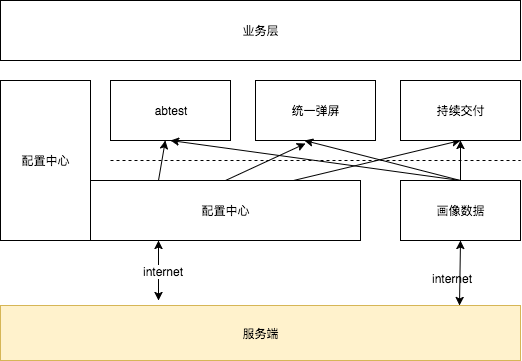
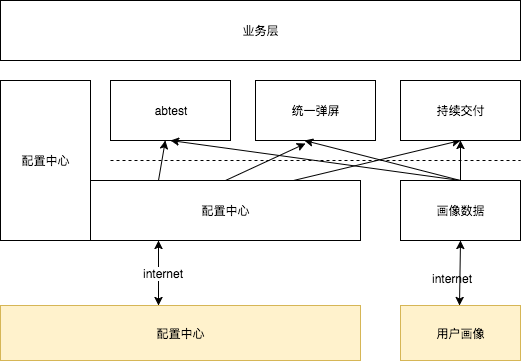
[fix]fix post

diff --git a/_posts/Technology/Algorithm/2018-08-22-tree.md b/_posts/Technology/Algorithm/2018-08-22-tree.md
@@ -1,0 +1,19 @@
+---
+
+layout: post
+title: 树
+category: 技术
+tags: Algorithm
+keywords: tree
+
+---
+
+## 简介（未完成）
+
+[左右值匹配算法](https://zhuanlan.zhihu.com/p/26046374)
+
+数据库中 描述一棵树 除了常规 方式，还有另一种 方式 [左右值树（转）](https://my.oschina.net/wamdy/blog/156931)
+
+[MySQL 左右值无限分类 预排序遍历树算法](https://my.oschina.net/bootstrap/blog/166805)
+
+

diff --git a/_posts/Technology/Architecture/2018-07-06-client_support.md b/_posts/Technology/Architecture/2018-07-06-client_support.md
@@ -61,6 +61,8 @@ keywords: abtest
 
 ![](/public/upload/architecture/client_support_client_1.png)
 
+所有业务 以配置形式存在，通过配置中心 下发到客户端，客户端同时拉取 用户画像数据，据此根据 相应的配置数据 进行 匹配，进而产生 相应的业务行为。
+
 ### 各自为政
 
 ![](/public/upload/architecture/client_support_client_2.png)
